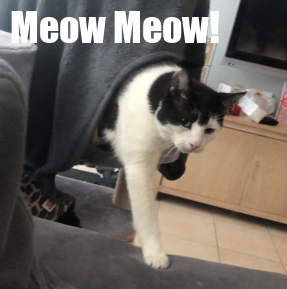
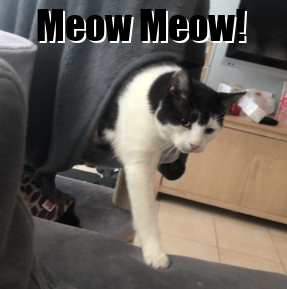
meme met schaduw text

Changed region(s): [[0.0279, 0.0311, 0.8641, 0.1557]]

diff --git a/03-MemesGifs/maak_meme.py b/03-MemesGifs/maak_meme.py
@@ -30,4 +30,4 @@ tekengebied.multiline_text((tekst_x-2, tekst_y-2), tekst, font=lettertype, fill=
 achtergrond.show()
 
 # En opslaan onder een andere naam
-# achtergrond.save("meme_met_tekst.png")
+achtergrond.save("meme_met_tekst.png")
